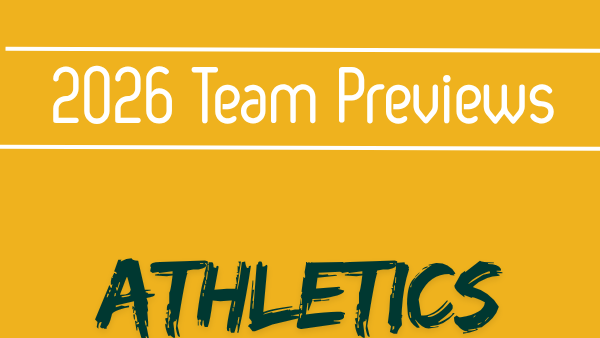
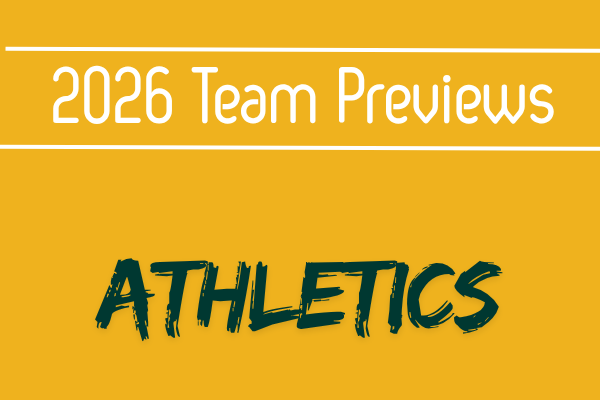
Update site assets (css, png)

Changed region(s): [[0.0, 0.1183, 1.0, 0.3846], [0.15, 0.6213, 0.84, 1.0], [0.0, 0.4142, 1.0, 0.4438]]

diff --git a/assets/css/main.css b/assets/css/main.css
@@ -418,12 +418,7 @@ img { max-width: 100%; display: block; }
 }
 
 .article-list-card .card-image {
-  width: 100%;
-  aspect-ratio: 16 / 9;
-  object-fit: cover;
-  object-position: center 30%;
-  align-self: center;
-  display: block;
+  align-self: start;
 }
 
 /* ============================================================
